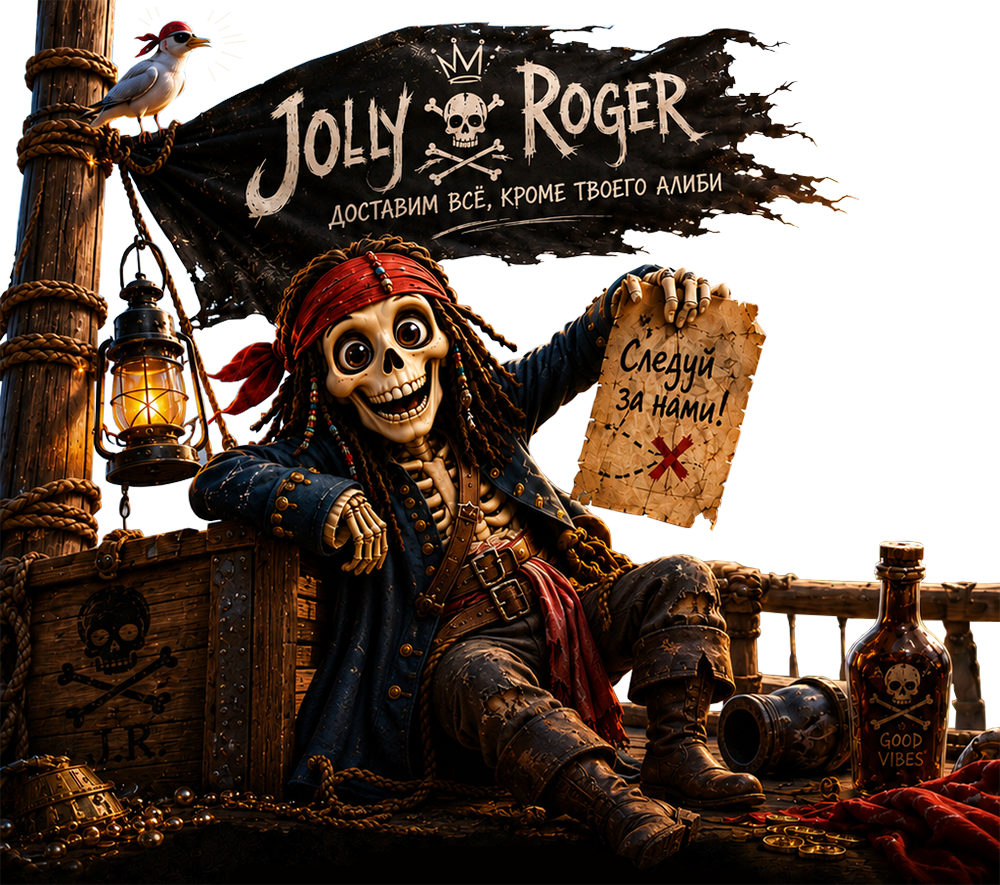
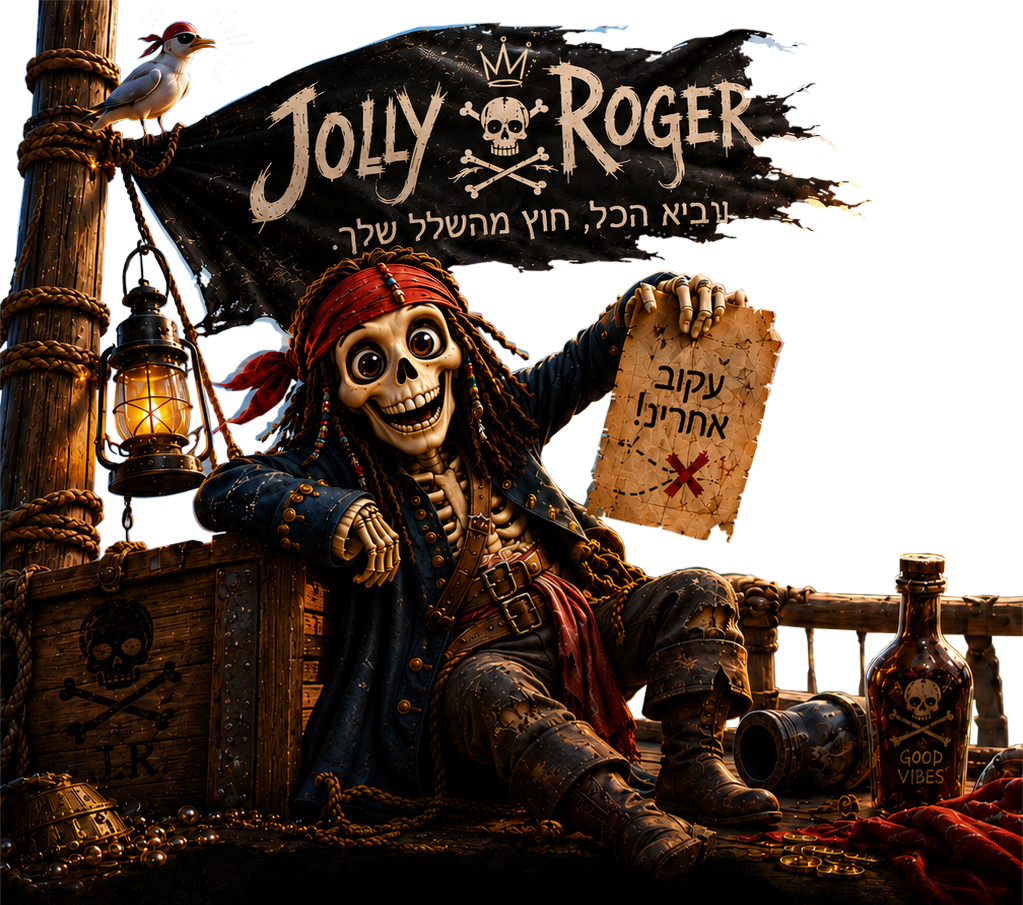
Add files via upload

diff --git a/index.html b/index.html
@@ -1,5 +1,5 @@
 <!DOCTYPE html>
-<html lang="ru">
+<html lang="he" dir="rtl">
 <head>
     <meta charset="UTF-8">
 
@@ -10,7 +10,7 @@
 
     <meta
         name="description"
-        content="Jolly Roger — новости, акции, заказы и приключения команды."
+        content="Jolly Roger — חדשות, מבצעים, הזמנות והרפתקאות הצוות."
     >
 
     <meta name="theme-color" content="#000000">
@@ -21,11 +21,11 @@
     <link rel="preconnect" href="https://fonts.gstatic.com" crossorigin>
 
     <link
-        href="https://fonts.googleapis.com/css2?family=Oswald:wght@400;500;600;700&family=Pirata+One&family=Rye&display=swap"
+        href="https://fonts.googleapis.com/css2?family=Frank+Ruhl+Libre:wght@400;500;600;700&family=Heebo:wght@400;500;600;700&family=Oswald:wght@400;500;600;700&family=Pirata+One&family=Rye&display=swap"
         rel="stylesheet"
     >
 
-    <link rel="stylesheet" href="style.css?v=19">
+    <link rel="stylesheet" href="style.css?v=20">
 </head>
 
 <body>
@@ -40,7 +40,7 @@
             <img
                 class="hero__composition"
                 src="assets/hero-pirate.png"
-                alt="Пират Jolly Roger на фоне Хайфы"
+                alt="הפיראט של Jolly Roger על רקע חיפה"
                 fetchpriority="high"
                 decoding="sync"
             >
@@ -57,7 +57,7 @@
                 ></span>
 
                 <h2 class="section-title">
-                    Почему мы?
+                    למה אנחנו?
                 </h2>
 
                 <span
@@ -76,18 +76,18 @@
                         <img
                             class="benefit-card__image benefit-card__image--chest"
                             src="assets/chest.png"
-                            alt="Сундук"
+                            alt="תיבת אוצר"
                             loading="lazy"
                         >
                     </div>
 
                     <h3 class="benefit-card__title">
-                        Широкий выбор
+                        מבחר רחב
                     </h3>
 
                     <p class="benefit-card__text">
-                        Всё, что нужно<br>
-                        для твоих приключений
+                        כל מה שצריך<br>
+                        להרפתקאות שלך
                     </p>
 
                 </article>
@@ -99,19 +99,19 @@
                         <img
                             class="benefit-card__image"
                             src="assets/compass.png"
-                            alt="Компас"
+                            alt="מצפן"
                             loading="lazy"
                         >
                     </div>
 
                     <h3 class="benefit-card__title">
-                        Быстрая доставка
+                        משלוח מהיר
                     </h3>
 
                     <p class="benefit-card__text">
-                        Привезём быстро<br>
-                        и незаметно.<br>
-                        Как и подобает пиратам
+                        נביא במהירות<br>
+                        ובדיסקרטיות.<br>
+                        כמו שפיראטים יודעים
                     </p>
 
                 </article>
@@ -123,19 +123,19 @@
                         <img
                             class="benefit-card__image"
                             src="assets/coin.png"
-                            alt="Пиратская монета"
+                            alt="מטבע פיראטים"
                             loading="lazy"
                         >
                     </div>
 
                     <h3 class="benefit-card__title">
-                        Честные цены
+                        מחירים הוגנים
                     </h3>
 
                     <p class="benefit-card__text">
-                        Без наценок и<br>
-                        скрытых условий.<br>
-                        Только честный обмен
+                        ללא תוספות מחיר<br>
+                        וללא תנאים נסתרים.<br>
+                        רק עסקה הוגנת
                     </p>
 
                 </article>
@@ -147,18 +147,18 @@
                         <img
                             class="benefit-card__image benefit-card__image--mask"
                             src="assets/mask.png"
-                            alt="Пиратская маска"
+                            alt="מסכת פיראטים"
                             loading="lazy"
                         >
                     </div>
 
                     <h3 class="benefit-card__title">
-                        Анонимно
+                        אנונימיות מלאה
                     </h3>
 
                     <p class="benefit-card__text">
-                        Все заказы<br>
-                        анонимны
+                        כל ההזמנות<br>
+                        אנונימיות
                     </p>
 
                 </article>
@@ -182,7 +182,7 @@
                 <div class="social-board__content">
 
                     <h2 class="social-board__title">
-                        Следуй за нами
+                        עקבו אחרינו
                     </h2>
 
                     <div class="social-board__buttons">
@@ -192,11 +192,11 @@
                             href="https://t.me/+tiKPZxjzs_xhZWZk"
                             target="_blank"
                             rel="noopener noreferrer"
-                            aria-label="Открыть Telegram Jolly Roger"
+                            aria-label="פתיחת ערוץ הטלגרם של Jolly Roger"
                         >
                             <img
                                 src="assets/telegram-button.png"
-                                alt="Telegram: новости, акции и заказы"
+                                alt="טלגרם: חדשות, מבצעים והזמנות"
                             >
                         </a>
 
@@ -205,11 +205,11 @@
                             href="https://www.instagram.com/jroger.haifa"
                             target="_blank"
                             rel="noopener noreferrer"
-                            aria-label="Открыть Instagram Jolly Roger"
+                            aria-label="פתיחת עמוד האינסטגרם של Jolly Roger"
                         >
                             <img
                                 src="assets/instagram-button.png"
-                                alt="Instagram: жизнь команды и закулисье"
+                                alt="אינסטגרם: חיי הצוות ומאחורי הקלעים"
                             >
                         </a>
 
@@ -232,8 +232,8 @@
                 ></span>
 
                 <p class="footer__text">
-                    <span>ЖИВИ ЯРКО.</span>
-                    <span>ОСТАВАЙСЯ ЛЕГЕНДОЙ!</span>
+                    <span>תחיה בגדול.</span>
+                    <span>תישאר אגדה!</span>
                 </p>
 
                 <span
@@ -247,7 +247,7 @@
 
     </main>
 
-    <script src="script.js?v=8"></script>
+    <script src="script.js?v=9"></script>
 
 </body>
 </html>

diff --git a/script.js b/script.js
@@ -1,20 +1,17 @@
 "use strict";
 
 document.addEventListener("DOMContentLoaded", () => {
-    setupHeroParallax();
+    setupRevealAnimation();
 });
 
 
 /**
- * Создаёт лёгкое движение фона Хайфы при прокрутке.
- *
- * Передняя композиция с пиратом остаётся на месте,
- * а фон перемещается медленнее, создавая глубину.
+ * Показывает элементы при прокрутке страницы.
  */
-function setupHeroParallax() {
-    const hero = document.getElementById("hero");
+function setupRevealAnimation() {
+    const elements = document.querySelectorAll(".reveal");
 
-    if (!hero) {
+    if (elements.length === 0) {
         return;
     }
 
@@ -22,86 +19,35 @@ function setupHeroParallax() {
         "(prefers-reduced-motion: reduce)"
     ).matches;
 
-    if (reducedMotionEnabled) {
-        hero.style.setProperty("--parallax-y", "0px");
+    if (
+        reducedMotionEnabled ||
+        !("IntersectionObserver" in window)
+    ) {
+        elements.forEach((element) => {
+            element.classList.add("is-visible");
+        });
+
         return;
     }
 
-    let animationFrameId = null;
+    const observer = new IntersectionObserver(
+        (entries, currentObserver) => {
+            entries.forEach((entry) => {
+                if (!entry.isIntersecting) {
+                    return;
+                }
 
-    function updateParallax() {
-        animationFrameId = null;
-
-        const heroRect = hero.getBoundingClientRect();
-        const heroHeight = hero.offsetHeight;
-
-        /*
-         * Анимация считается только пока hero находится
-         * рядом с видимой частью страницы.
-         */
-        if (
-            heroRect.bottom < 0 ||
-            heroRect.top > window.innerHeight
-        ) {
-            return;
-        }
-
-        /*
-         * Максимальное перемещение намеренно небольшое.
-         * На смартфоне слишком сильный параллакс быстро
-         * превращается в дёрганую карусель.
-         */
-        const maximumMovement = Math.min(
-            45,
-            heroHeight * 0.07
-        );
-
-        const scrollProgress = Math.max(
-            0,
-            Math.min(
-                1,
-                -heroRect.top / heroHeight
-            )
-        );
-
-        const movement =
-            scrollProgress * maximumMovement;
-
-        hero.style.setProperty(
-            "--parallax-y",
-            `${movement.toFixed(2)}px`
-        );
-    }
-
-    function requestParallaxUpdate() {
-        if (animationFrameId !== null) {
-            return;
-        }
-
-        animationFrameId =
-            window.requestAnimationFrame(updateParallax);
-    }
-
-    updateParallax();
-
-    window.addEventListener(
-        "scroll",
-        requestParallaxUpdate,
+                entry.target.classList.add("is-visible");
+                currentObserver.unobserve(entry.target);
+            });
+        },
         {
-            passive: true
+            threshold: 0.08,
+            rootMargin: "0px 0px -25px 0px"
         }
     );
 
-    window.addEventListener(
-        "resize",
-        requestParallaxUpdate,
-        {
-            passive: true
-        }
-    );
-
-    window.addEventListener(
-        "orientationchange",
-        requestParallaxUpdate
-    );
+    elements.forEach((element) => {
+        observer.observe(element);
+    });
 }

diff --git a/style.css b/style.css
@@ -27,13 +27,14 @@ html {
 
 body {
     margin: 0;
+    direction: rtl;
     min-width: 320px;
 
     background: var(--black);
     color: var(--text-light);
 
     font-family:
-        "Oswald",
+        "Heebo",
         Arial,
         sans-serif;
 
@@ -187,8 +188,8 @@ a {
     color: var(--gold-light);
 
     font-family:
-        "Rye",
-        "Pirata One",
+        "Frank Ruhl Libre",
+        "Heebo",
         Georgia,
         serif;
 
@@ -342,8 +343,8 @@ a {
     color: var(--gold-main);
 
     font-family:
-        "Pirata One",
-        "Rye",
+        "Frank Ruhl Libre",
+        "Heebo",
         Georgia,
         serif;
 
@@ -450,8 +451,8 @@ a {
     color: var(--gold-light);
 
     font-family:
-        "Rye",
-        "Pirata One",
+        "Frank Ruhl Libre",
+        "Heebo",
         Georgia,
         serif;
 
@@ -666,8 +667,8 @@ a {
     color: var(--gold-main);
 
     font-family:
-        "Pirata One",
-        "Rye",
+        "Frank Ruhl Libre",
+        "Heebo",
         Georgia,
         serif;
 
